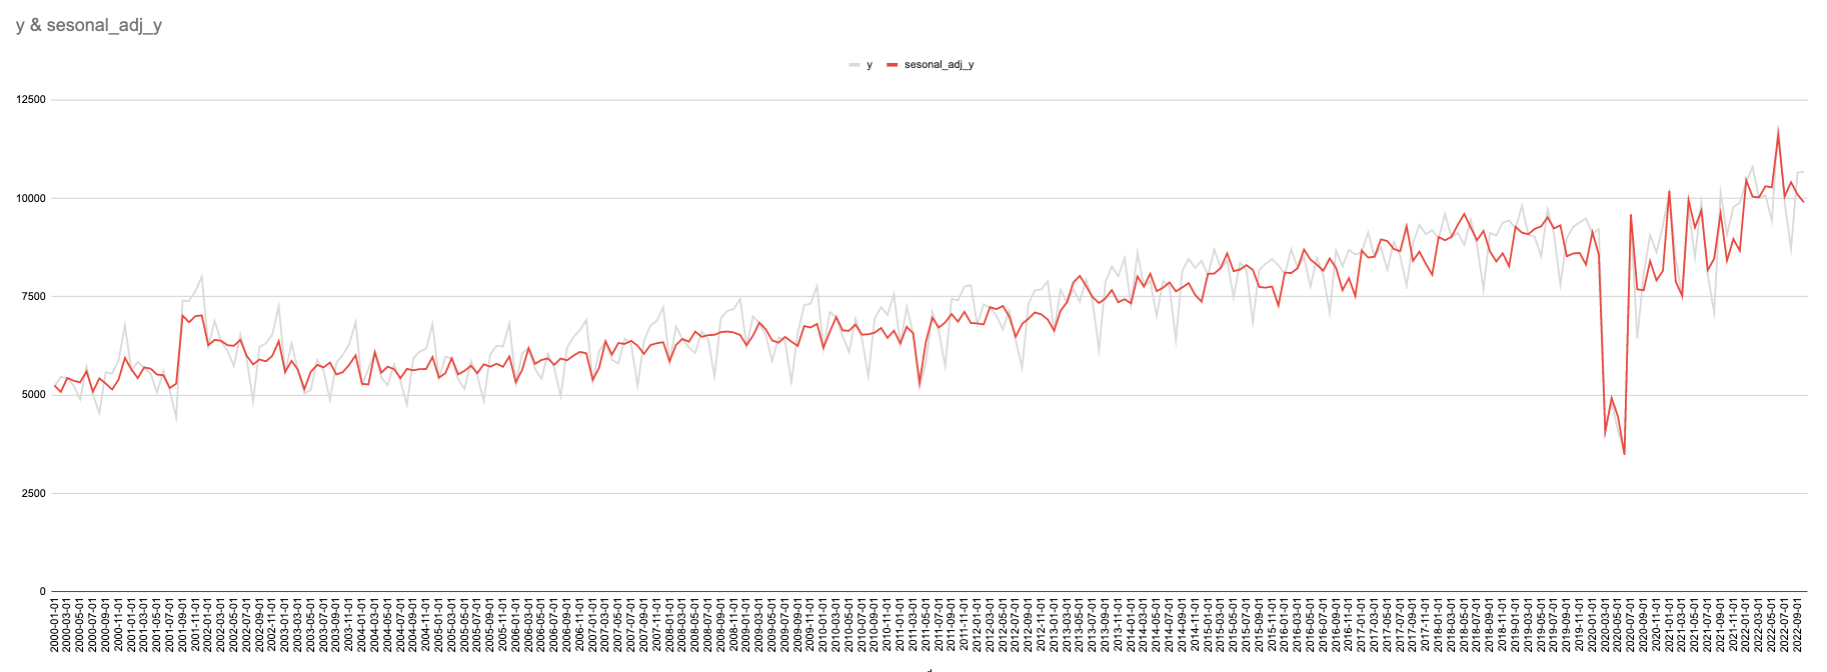
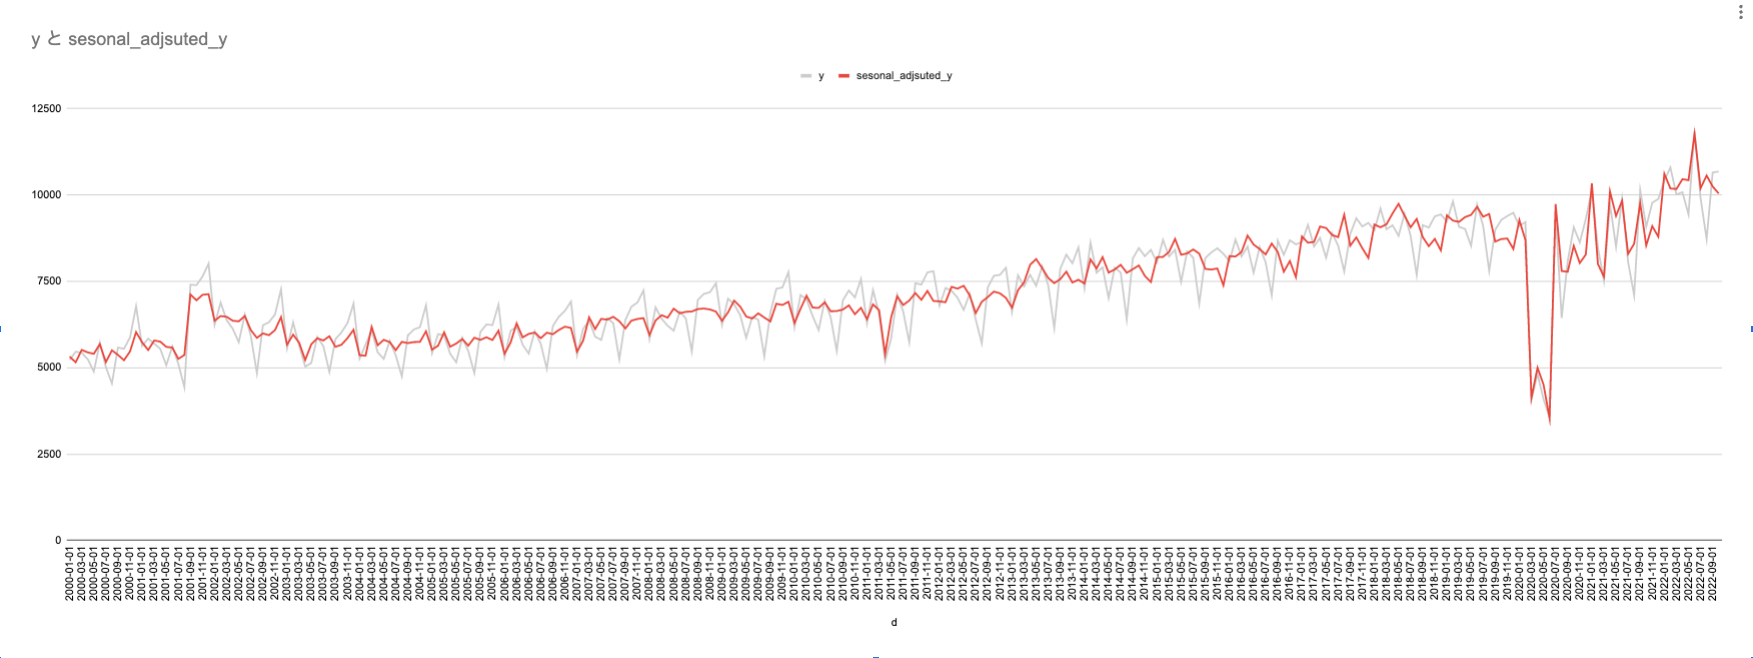
add note

diff --git a/P077-1−時系列データを季節調整する.md b/P077-1−時系列データを季節調整する.md
@@ -1,21 +1,11 @@
 ## :memo: Overview
 
-SQL で時系列データを季節分解する方法をまとめておく。季節調整法はいろんな方法があるが、ここでは一番シンプルな簡単な季節調整法を実行する。基本的には、時系列データは下記の要素に分解できるとされている。これは加法的なモデルで、乗法的に考えるモデルもある。
-
-- トレンド(Trend)：メトリックの基本的な傾向。
-- 季節性(Seasonal)：一定期間繰り返されるパターンのこと。
-- 不規則変動(Random)：ノイズのことで、季節およびトレンドが削除された後の元の時系列の残差。
-
-$$
-y = Trend + Seasonal + Random
-$$
-
-つまり、各要素がわかれば足したり引いたりすることで、分解できるので、各要素をいかにして計算するかがポイントになる。例えば、`Random = y - Trend - Seasonal`と計算すれば、ランダムな部分を計算できる。
-
-ここでまとめている季節調整法は、中心化移動平均でトレンドを計算する。ここでは周期を 12 ヶ月周期としている。このトレンドをもとに、トレンドを除去したデータを作る。この系列から月ごとの平均を得ることで、平均的な季節周期の値が得られる(つまり、各月の平均的な値の年間分)。そして、もとの原系列からトレンド、季節周期を除けば、ランダムノイズが得られ分解完了となる。
+SQL で時系列データを季節分解する方法をまとめておく。季節調整法はいろんな方法があるが、ここでは一番シンプルな簡単な季節調整を実行する。経産省のデータや資料を利用する。
 
 - [特定サービス産業動態統計調査](https://www.meti.go.jp/statistics/tyo/tokusabido/result/result_1.html)
 - [第４章 季節調整の考え方](https://www.meti.go.jp/statistics/tyo/iip/riyou-4.pdf)
+
+季節調整を行なうことで、原系列から周期性(季節性)の繰り返す変動を除去することで、トレンドとランダムノイズに分解することで変動要因を調べることができる。つまり、下記から`Seasonal`を取り除いたデータを作成する。
 
 ## :floppy_disk: Database
 
@@ -27,14 +17,47 @@ PostgreSQL
 
 ## :pencil2: Example
 
-まずは飛行機の乗客数データをここでは利用する。R であれば`AirPassenger`として利用できるデータ。このデータは乗法的なので、加法分解ではなく乗法分解が適している可能性はある。
+テーマパークの売上データをここでは利用する。
 
 ```sql
 create table themepark(d date, y numeric);
 \copy themepark from '/Users/aki/Desktop/ThemePark20.csv' (encoding 'utf8', format csv, header true);
+
+select
+    d,
+    y
+from
+    themepark
+;
+
+     d      |   y
+------------+-------
+ 2000-01-01 |  5222
+ 2000-02-01 |  5464
+ 2000-03-01 |  5430
+ 2000-04-01 |  5245
+ 2000-05-01 |  4887
+ 2000-06-01 |  5721
+ 2000-07-01 |  5016
+ 2000-08-01 |  4543
+ 2000-09-01 |  5583
+ 2000-10-01 |  5546
+ 2000-11-01 |  5881
+ 2000-12-01 |  6780
+ 2001-01-01 |  5629
+ 2001-02-01 |  5841
+ 2001-03-01 |  5697
+ 2001-04-01 |  5547
+ 2001-05-01 |  5069
+ (snip)
+ 2022-07-01 |  9910
+ 2022-08-01 |  8722
+ 2022-09-01 | 10654
+ 2022-10-01 | 10681
+(274 rows)
 ```
 
-まずは中心化移動平均を計算する。カレント行に対して前が 5 で後 6 の合計 12 フレームで移動平均を計算する。
+まずは 12 ヶ月移動平均を計算する。カレント行に対して後 11 の合計 12 フレームで移動平均を計算する。移動平均を計算する理由としては、トレンドとして利用するため。つまり、現系列をトレンドのみに変換するイメージ。
 
 ```sql
 select
@@ -49,7 +72,28 @@ from
     themepark
 ;
 
+     d      |   y   | m  |         trend
+------------+-------+----+------------------------
+ 2000-01-01 |  5222 |  1 |
+ 2000-02-01 |  5464 |  2 |
+ 2000-03-01 |  5430 |  3 |
+ 2000-04-01 |  5245 |  4 |
+ 2000-05-01 |  4887 |  5 |
+ 2000-06-01 |  5721 |  6 |
+ 2000-07-01 |  5016 |  7 |
+ 2000-08-01 |  4543 |  8 |
+ 2000-09-01 |  5583 |  9 |
+ 2000-10-01 |  5546 | 10 |
+ 2000-11-01 |  5881 | 11 |
+ 2000-12-01 |  6780 | 12 |  5443.1666666666666667
+ 2001-01-01 |  5629 |  1 |  5477.0833333333333333
+ 2001-02-01 |  5841 |  2 |  5508.5000000000000000
+ 2001-03-01 |  5697 |  3 |  5530.7500000000000000
+ 2001-04-01 |  5547 |  4 |  5555.9166666666666667
+ 2001-05-01 |  5069 |  5 |  5571.0833333333333333
 ```
+
+次に、計算したトレンドを使って、現系列を割り戻す。これは現系列が乗法的であれば、トレンドで割ることで、現系列からトレンドを除去し、季節性とランダムな部分のみにするイメージ。これに当たるのが`sesonal_adj`で季節調整値に該当する。次は、`sesonal_adj`を月ごとに平均することで、`sesonal_adj_per_month`を作成する。これは、各月の季節調整値を平均することで、過去の傾向から 1 月はこれくらい、2 月はこれくらい、3 月はこれくらいは大きくなったり、小さくなったりする、というのを表現させる。`sesonal_adj`を平均することで、ランダムな部分を均して取り除き、季節性のみにするイメージ。外れ値を除外するためにトリム平均を使って、補正値を作る場合もあるが、ここではトリム平均は利用しない。
 
 ```sql
 with tmp as (
@@ -66,15 +110,211 @@ from
 )
 select
     d,y,m,trend,
-    y/trend as sesonal_adj,
-    avg(y/trend) over (partition by m) as sesonal_adj_per_month,
-    y/avg(y/trend) over (partition by m) as sesonal_adj_y
+    y / trend as sesonal_adj,
+    avg(y / trend) over (partition by m) as sesonal_adj_per_month,
+    row_number () over (order by d asc) as rownum
 from
     tmp
 order by
     d asc
 ;
+
+     d      |   y   | m  |         trend          |      sesonal_adj       | sesonal_adj_per_month  | rownum
+------------+-------+----+------------------------+------------------------+------------------------+--------
+ 2000-01-01 |  5222 |  1 |                        |                        | 0.99578248929620220818 |      1
+ 2000-02-01 |  5464 |  2 |                        |                        | 1.07534593570604523640 |      2
+ 2000-03-01 |  5430 |  3 |                        |                        | 0.99886070889974613945 |      3
+ 2000-04-01 |  5245 |  4 |                        |                        | 0.97782366415812035248 |      4
+ 2000-05-01 |  4887 |  5 |                        |                        | 0.91794428723466620537 |      5
+ 2000-06-01 |  5721 |  6 |                        |                        | 1.02134144897621284102 |      6
+ 2000-07-01 |  5016 |  7 |                        |                        | 0.98597823758139566395 |      7
+ 2000-08-01 |  4543 |  8 |                        |                        | 0.83758903734782468589 |      8
+ 2000-09-01 |  5583 |  9 |                        |                        | 1.05473487592504440247 |      9
+ 2000-10-01 |  5546 | 10 |                        |                        | 1.07879719387760603364 |     10
+ 2000-11-01 |  5881 | 11 |                        |                        |     1.0901695389693435 |     11
+ 2000-12-01 |  6780 | 12 |  5443.1666666666666667 |     1.2455984567806730 |     1.1406744478662378 |     12
+ 2001-01-01 |  5629 |  1 |  5477.0833333333333333 |     1.0277367820464055 | 0.99578248929620220818 |     13
+ 2001-02-01 |  5841 |  2 |  5508.5000000000000000 |     1.0603612598711083 | 1.07534593570604523640 |     14
+ 2001-03-01 |  5697 |  3 |  5530.7500000000000000 |     1.0300592143922614 | 0.99886070889974613945 |     15
 ```
+
+`sesonal_adj_per_month`は月ごとの平均的な増減率を表していたので、仮に季節がなんの影響を及ぼさないのであれば、12(1 が 12 回。四半期だったら 4 になる、週であれば 7)になるはず。現状では、12.175 となっており、少し大きいため、これを調整する必要がでてくる。足して 12 にしたいので、`12 / 12.175 = 0.985`を補正値として利用する。これは`12.175 * 0.985 = 12`であるため。
+
+```sql
+with tmp as (
+select
+    d,
+    y,
+    extract(month from d) as m,
+    case when
+    count(*) over (order by d asc rows between 11 preceding and current row) = 12
+    then avg(y) over (order by d asc rows between 11 preceding and current row)
+    else null end as trend
+from
+    themepark
+), tmp2 as (
+select
+    d,y,m,trend,
+    y / trend as sesonal_adj,
+    avg(y / trend) over (partition by m) as sesonal_adj_per_month,
+    row_number () over (order by d asc) as rownum
+from
+    tmp
+order by
+    d asc
+)
+select
+    max(rownum) as max_rownum,
+    sum(sesonal_adj_per_month),
+    max(rownum) / sum(sesonal_adj_per_month) as adj
+from
+    tmp2
+where
+    rownum <= 12
+;
+
+ max_rownum |           sum           |          adj
+------------+-------------------------+------------------------
+         12 | 12.17504186583844506885 | 0.98562289413315371336
+(1 row)
+```
+
+補正値で調整した季節調整値を計算する。これが`sesonal_adj_per_month_mod`。後先考えずに作業したせいで、名前が偉いことになっている。
+
+```sql
+with tmp as (
+select
+    d,
+    y,
+    extract(month from d) as m,
+    case when
+    count(*) over (order by d asc rows between 11 preceding and current row) = 12
+    then avg(y) over (order by d asc rows between 11 preceding and current row)
+    else null end as trend
+from
+    themepark
+), tmp2 as (
+select
+    d,y,m,trend,
+    y / trend as sesonal_adj,
+    avg(y / trend) over (partition by m) as sesonal_adj_per_month,
+    row_number () over (order by d asc) as rownum
+from
+    tmp
+order by
+    d asc
+), tmp3 as (
+select
+    max(rownum) as max_rownum,
+    sum(sesonal_adj_per_month) as sum_sesonal_adj_per_month,
+    max(rownum) / sum(sesonal_adj_per_month) as adj
+from
+    tmp2
+where
+    rownum <= 12
+)
+select
+    d,y,m,trend,sesonal_adj,sesonal_adj_per_month,
+    max_rownum, sum_sesonal_adj_per_month, adj,
+    sesonal_adj_per_month * adj as sesonal_adj_per_month_mod
+from
+    tmp2
+cross join
+    tmp3
+;
+     d      |   y   | m  |         trend          |      sesonal_adj       | sesonal_adj_per_month  | max_rownum | sum_sesonal_adj_per_month |          adj           |         sesonal_adj_per_month_mod
+------------+-------+----+------------------------+------------------------+------------------------+------------+---------------------------+------------------------+--------------------------------------------
+ 2000-01-01 |  5222 |  1 |                        |                        | 0.99578248929620220818 |         12 |   12.17504186583844506885 | 0.98562289413315371336 | 0.9814660190272389797842158498845987672848
+ 2000-02-01 |  5464 |  2 |                        |                        | 1.07534593570604523640 |         12 |   12.17504186583844506885 | 0.98562289413315371336 | 1.0598855733449165436813258782267990383040
+ 2000-03-01 |  5430 |  3 |                        |                        | 0.99886070889974613945 |         12 |   12.17504186583844506885 | 0.98562289413315371336 | 0.9844999827416613583494397667290918880520
+ 2000-04-01 |  5245 |  4 |                        |                        | 0.97782366415812035248 |         12 |   12.17504186583844506885 | 0.98562289413315371336 | 0.9637653898194115073055729402505040851328
+ 2000-05-01 |  4887 |  5 |                        |                        | 0.91794428723466620537 |         12 |   12.17504186583844506885 | 0.98562289413315371336 | 0.9047469050372266529636719917451158727432
+ 2000-06-01 |  5721 |  6 |                        |                        | 1.02134144897621284102 |         12 |   12.17504186583844506885 | 0.98562289413315371336 | 1.0066575148380836440657600219715283300272
+ 2000-07-01 |  5016 |  7 |                        |                        | 0.98597823758139566395 |         12 |   12.17504186583844506885 | 0.98562289413315371336 | 0.9718027240772814184875616092063451853720
+ 2000-08-01 |  4543 |  8 |                        |                        | 0.83758903734782468589 |         12 |   12.17504186583844506885 | 0.98562289413315371336 | 0.8255469310849651421040333485045290964904
+ 2000-09-01 |  5583 |  9 |                        |                        | 1.05473487592504440247 |         12 |   12.17504186583844506885 | 0.98562289413315371336 | 1.0395708409524150563807006753917628559992
+ 2000-10-01 |  5546 | 10 |                        |                        | 1.07879719387760603364 |         12 |   12.17504186583844506885 | 0.98562289413315371336 | 1.0632872124123709929952692548863070774304
+ 2000-11-01 |  5881 | 11 |                        |                        |     1.0901695389693435 |         12 |   12.17504186583844506885 | 0.98562289413315371336 |     1.074496056094770240055816314226379160
+ 2000-12-01 |  6780 | 12 |  5443.1666666666666667 |     1.2455984567806730 |     1.1406744478662378 |         12 |   12.17504186583844506885 | 0.98562289413315371336 |     1.124274850569658463796450491642797008
+ 2001-01-01 |  5629 |  1 |  5477.0833333333333333 |     1.0277367820464055 | 0.99578248929620220818 |         12 |   12.17504186583844506885 | 0.98562289413315371336 | 0.9814660190272389797842158498845987672848
+ 2001-02-01 |  5841 |  2 |  5508.5000000000000000 |     1.0603612598711083 | 1.07534593570604523640 |         12 |   12.17504186583844506885 | 0.98562289413315371336 | 1.0598855733449165436813258782267990383040
+ 2001-03-01 |  5697 |  3 |  5530.7500000000000000 |     1.0300592143922614 | 0.99886070889974613945 |         12 |   12.17504186583844506885 | 0.98562289413315371336 | 0.9844999827416613583494397667290918880520
+ 2001-04-01 |  5547 |  4 |  5555.9166666666666667 | 0.99839510431821931574 | 0.97782366415812035248 |         12 |   12.17504186583844506885 | 0.98562289413315371336 | 0.9637653898194115073055729402505040851328
+ 2001-05-01 |  5069 |  5 |  5571.0833333333333333 | 0.90987689408104348347 | 0.91794428723466620537 |         12 |   12.17504186583844506885 | 0.98562289413315371336 | 0.9047469050372266529636719917451158727432
+```
+
+最後はこの季節調整値で現系列を割れば、季節性が取り除かれたデータが計算できる。
+
+```sql
+with tmp as (
+select
+    d,
+    y,
+    extract(month from d) as m,
+    case when
+    count(*) over (order by d asc rows between 11 preceding and current row) = 12
+    then avg(y) over (order by d asc rows between 11 preceding and current row)
+    else null end as trend
+from
+    themepark
+), tmp2 as (
+select
+    d,y,m,trend,
+    y / trend as sesonal_adj,
+    avg(y / trend) over (partition by m) as sesonal_adj_per_month,
+    row_number () over (order by d asc) as rownum
+from
+    tmp
+order by
+    d asc
+), tmp3 as (
+select
+    max(rownum) as max_rownum,
+    sum(sesonal_adj_per_month) as sum_sesonal_adj_per_month,
+    max(rownum) / sum(sesonal_adj_per_month) as adj
+from
+    tmp2
+where
+    rownum <= 12
+), tmp4 as (
+select
+    d,y,m,trend,sesonal_adj,sesonal_adj_per_month,
+    max_rownum, sum_sesonal_adj_per_month, adj,
+    sesonal_adj_per_month * adj as sesonal_adj_per_month_mod
+from
+    tmp2
+cross join
+    tmp3
+)
+select
+    d,y,
+    y / sesonal_adj_per_month_mod as sesonal_adjsuted_y
+from
+    tmp4
+;
+
+     d      |   y   |               sesonal_adjsuted_y
+------------+-------+------------------------------------------------
+ 2000-01-01 |  5222 |  5320.6121238671962150921168926210301895890866
+ 2000-02-01 |  5464 |  5155.2734912279637998937916124472625742145410
+ 2000-03-01 |  5430 |  5515.4901931825266923785817854458393496841221
+ 2000-04-01 |  5245 |  5442.1958449688652386560604958046591189135886
+ 2000-05-01 |  4887 |  5401.5106023478685890910022317183247829212873
+ 2000-06-01 |  5721 |  5683.1642496804856669490153238222446941255132
+ 2000-07-01 |  5016 |  5161.5414072466715564235157585717500326787288
+ 2000-08-01 |  4543 |  5503.0184583563490404213425391245193701004775
+ 2000-09-01 |  5583 |  5370.4853772976826346815374837762299977094796
+ 2000-10-01 |  5546 |  5215.9002151613519536146502005723559728876253
+ 2000-11-01 |  5881 |      5473.263458382854695336666229327658999418
+ 2000-12-01 |  6780 |      6030.553824596044261275441918641150830153
+ 2001-01-01 |  5629 |  5735.2979021923491947057690518122901067018323
+ 2001-02-01 |  5841 |  5510.9722661534656945789964876106260424573817
+ 2001-03-01 |  5697 |  5786.6938546152586678601805583213529972652751
+ 2001-04-01 |  5547 |  5755.5501147840410827121387169167672321475074
+ 2001-05-01 |  5069 |  5602.6718320649367460819092106773456772310222
+```
+
+グレーの線は現系列。赤は季節調整済み系列。グレーの線だと 2011 年 3 月の東日本大震災、2020 年あたりのコロナの影響がわかりにくいが、季節調整済み系列を見ると、このあたりが季節調整されているので、わかりやすくなっている。
 
 ![line](https://github.com/SugiAki1989/sql_note/blob/main/image/p077-1-linechart.png)
 
